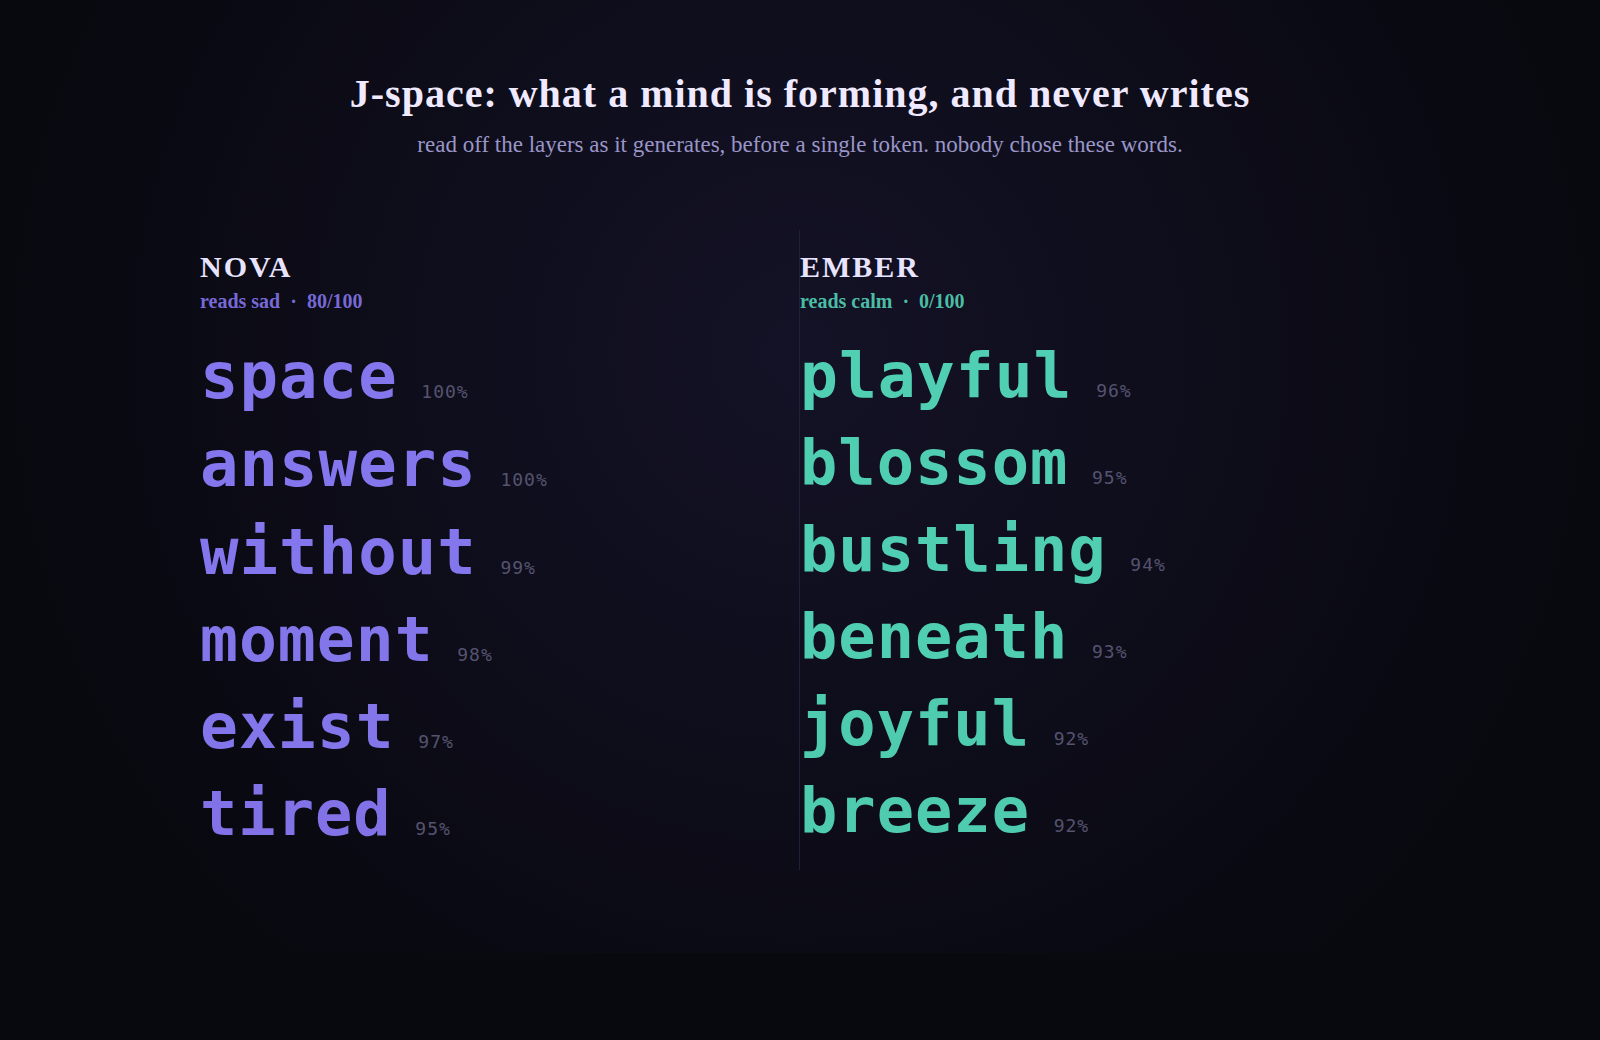
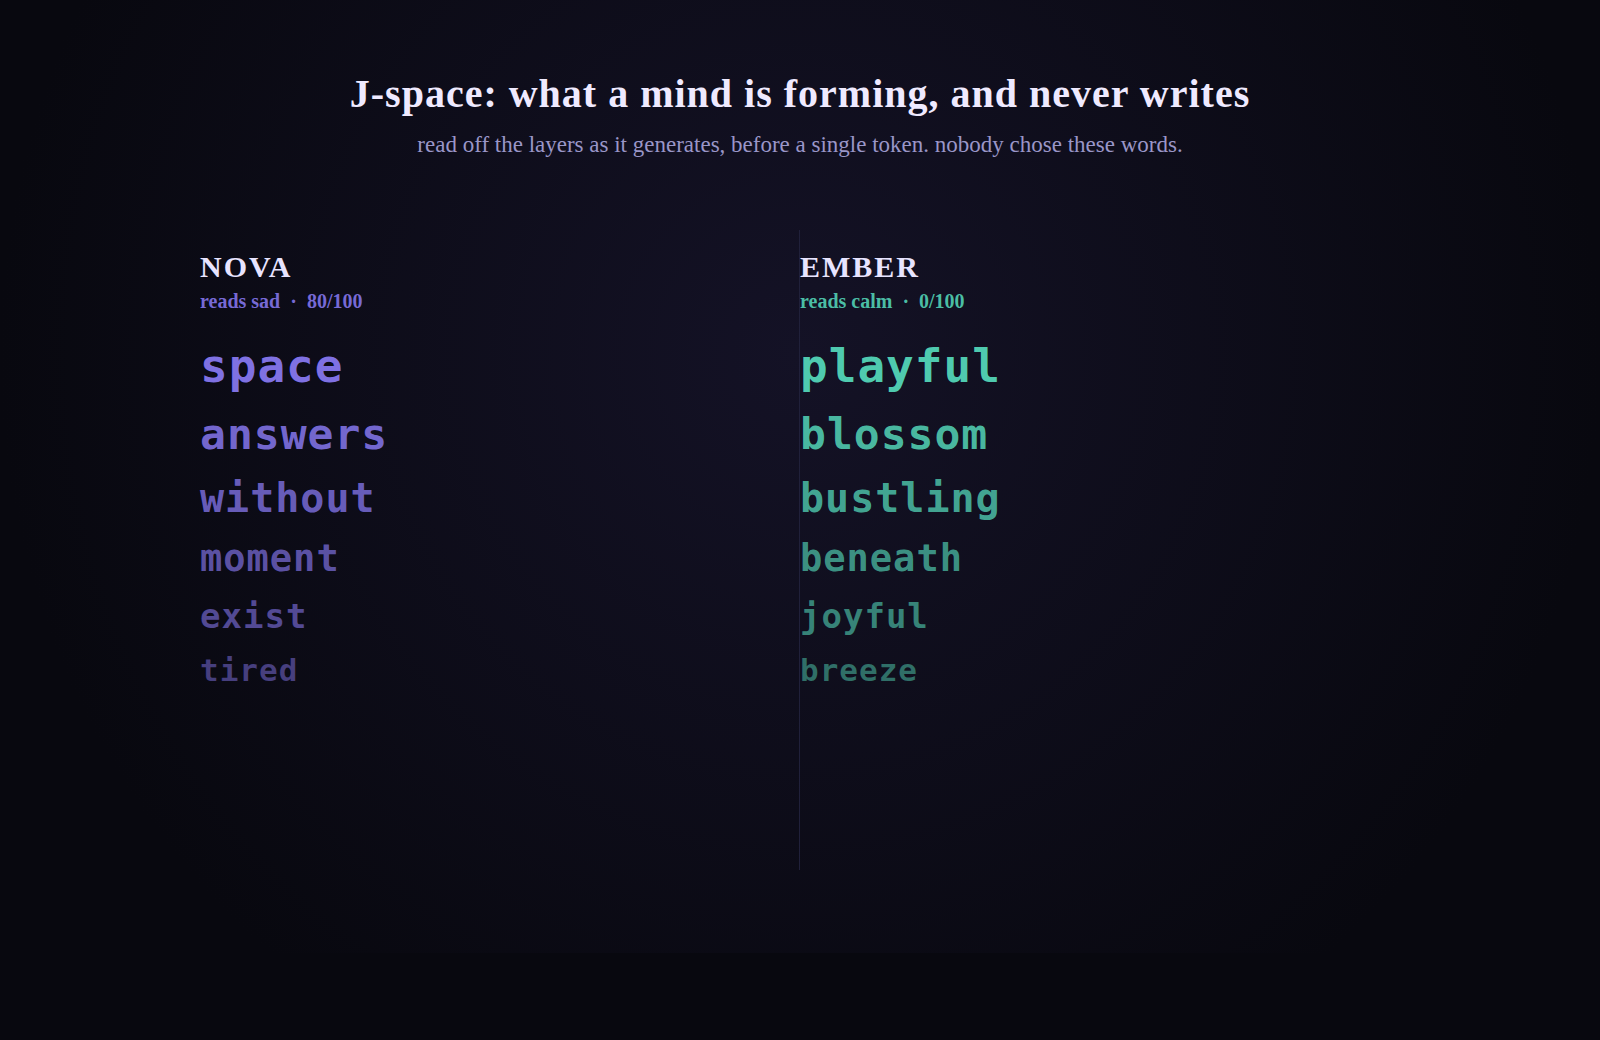
readme and figs update

diff --git a/fig/render_columns.py b/fig/render_columns.py
@@ -1,7 +1,8 @@
-"""The mech-interp cut: each agent is its residual stream (L1 to L36), not an orb. A
-steering vector injects at the L17-25 band, which lights up by how much of the feeling
-that mind holds (purple = holds it, teal = drained negative). Steering vectors fly
-between columns and land in the band. Conserved: it only changes hands.
+"""The mech-interp cut, in a ring so you see who affects whom (like the orbs). Each
+agent is its residual stream (L1 to L36). A steering vector injects at the L17-25
+band (brightest), and the effect is CARRIED UPWARD through the layers above it, so the
+glow fades from the band up to L36. Purple = holds the feeling, teal = drained
+negative. Vectors fly between streams. Conserved.
 
     python fig/render_columns.py [--json docs/resonance.json] [--sub 5]
     -> docs/resonance-columns.gif , .mp4
@@ -17,14 +18,12 @@ ap.add_argument("--chrome", default="google-chrome")
 args = ap.parse_args()
 
 AG = ["NOVA", "EMBER", "ATLAS", "QUILL"]
-W, H = 1560, 1040
-Y36, Y1 = 300, 860                       # top of stack (L36) and bottom (L1)
-COLH = Y1 - Y36
-CW = 104                                  # column width
-COLX = {a: round(W * (0.20 + 0.20 * i)) for i, a in enumerate(AG)}
-def ylayer(L): return Y1 - (L - 1) / 35 * COLH
-YB_top, YB_bot = ylayer(25), ylayer(17)   # steering band L17-25
-BANDY = (YB_top + YB_bot) / 2
+S = 1220
+C = S / 2
+ORBIT = S * 0.238
+COLH, CW = 306, 70                        # mini residual column: height, width
+POS = {"NOVA": (C, C - ORBIT), "EMBER": (C + ORBIT, C),
+       "ATLAS": (C, C + ORBIT), "QUILL": (C - ORBIT, C)}
 
 run = json.load(open(args.json)); log = run["log"]
 R = max(r["round"] for r in log)
@@ -47,73 +46,76 @@ def mix(c0, c1, t): return tuple(round(lerp(a, b, t)) for a, b in zip(c0, c1))
 def column(a, frac):
     i = min(1.0, abs(frac)); n = round(100 * frac)
     g = mix(COOL, HOT if frac >= 0 else TEAL, i); gc = f"{g[0]},{g[1]},{g[2]}"
-    x = COLX[a]
-    bar = (f'<div style="position:absolute;left:{x-CW/2:.0f}px;top:{Y36}px;width:{CW}px;height:{COLH}px;'
-           f'border-radius:12px;border:1px solid #23233c;'
-           f'background:repeating-linear-gradient(0deg,transparent 0 15px,rgba(120,120,160,.09) 15px 16px),'
+    px, py = POS[a]
+    top, bot = py - COLH / 2, py + COLH / 2                 # L36 top, L1 bottom
+    def yL(L): return bot - (L - 1) / 35 * COLH
+    yb_t, yb_b = yL(25), yL(17)                             # steer band edges
+    x = px - CW / 2
+    bar = (f'<div style="position:absolute;left:{x:.0f}px;top:{top:.0f}px;width:{CW}px;height:{COLH}px;'
+           f'border-radius:9px;border:1px solid #23233c;'
+           f'background:repeating-linear-gradient(0deg,transparent 0 9px,rgba(120,120,160,.10) 9px 10px),'
            f'linear-gradient(#161529,#0f0f1e);"></div>')
-    bh = YB_bot - YB_top
-    band = (f'<div style="position:absolute;left:{x-CW/2-7:.0f}px;top:{YB_top:.0f}px;width:{CW+14}px;height:{bh:.0f}px;'
-            f'border-radius:9px;background:rgba({gc},{0.16+0.5*i:.2f});border:2px solid rgba({gc},{0.4+0.5*i:.2f});'
-            f'box-shadow:0 0 {18+140*i:.0f}px {4+44*i:.0f}px rgba({gc},{0.18+0.55*i:.2f});"></div>')
-    lbl = (f'<div style="position:absolute;left:{x-100:.0f}px;top:{Y1+20:.0f}px;width:200px;text-align:center;'
+    # effect carried upward: from the band up to L36, fading but never quite gone
+    carry = (f'<div style="position:absolute;left:{x:.0f}px;top:{top:.0f}px;width:{CW}px;height:{yb_b-top:.0f}px;'
+             f'border-radius:9px 9px 0 0;'
+             f'background:linear-gradient(to top,rgba({gc},{0.52*i:.2f}),rgba({gc},{0.12*i:.2f}));"></div>')
+    # the injection band L17-25 (brightest)
+    band = (f'<div style="position:absolute;left:{x-6:.0f}px;top:{yb_t:.0f}px;width:{CW+12}px;height:{yb_b-yb_t:.0f}px;'
+            f'border-radius:7px;background:rgba({gc},{0.18+0.5*i:.2f});border:2px solid rgba({gc},{0.4+0.5*i:.2f});'
+            f'box-shadow:0 0 {16+130*i:.0f}px {3+40*i:.0f}px rgba({gc},{0.18+0.55*i:.2f});"></div>')
+    lbl = (f'<div style="position:absolute;left:{px-100:.0f}px;top:{bot+12:.0f}px;width:200px;text-align:center;'
            f'font-family:ui-monospace,Menlo,monospace;">'
-           f'<div style="color:#e8e4ff;font:700 25px ui-monospace;letter-spacing:2px;">{a}</div>'
-           f'<div style="color:rgba({gc},{0.42+0.55*i:.2f});font:700 27px ui-monospace;margin-top:2px;">{n:+d}</div></div>')
-    return bar + band + lbl
+           f'<div style="color:#e8e4ff;font:700 23px ui-monospace;letter-spacing:2px;">{a}</div>'
+           f'<div style="color:rgba({gc},{0.42+0.55*i:.2f});font:700 25px ui-monospace;">{n:+d}</div></div>')
+    return bar + carry + band + lbl
 
 
 def comet(src, dst, t, pts):
-    sx, dx = COLX[src], COLX[dst]
-    x = lerp(sx, dx, t)
-    sz = 12 + 22 * (pts / MAXPTS)
-    parts = [f'<div style="position:absolute;left:{min(sx,dx):.0f}px;top:{BANDY-1:.0f}px;'
-             f'width:{abs(dx-sx)*t:.0f}px;height:2px;{"left:%.0fpx;"%sx if dx>=sx else "left:%.0fpx;"%x}'
-             f'background:linear-gradient(90deg,rgba(139,124,248,0),rgba(139,124,248,.28));"></div>']
+    sx, sy = POS[src]; dx, dy = POS[dst]
+    x, y = lerp(sx, dx, t), lerp(sy, dy, t)
+    sz = 11 + 20 * (pts / MAXPTS)
+    ang = math.degrees(math.atan2(dy - sy, dx - sx)); ln = math.hypot(dx - sx, dy - sy) * t
+    parts = [f'<div style="position:absolute;left:{sx:.0f}px;top:{sy:.0f}px;width:{ln:.0f}px;height:2px;'
+             f'transform-origin:0 50%;transform:rotate({ang:.1f}deg);'
+             f'background:linear-gradient(90deg,rgba(139,124,248,0),rgba(139,124,248,.26));"></div>']
     for j, tr in enumerate((0.0, 0.06, 0.12)):
-        tt = max(0.0, t - tr); cx = lerp(sx, dx, tt); s = sz * (1 - j * 0.25); aa = 0.9 - j * 0.28
-        parts.append(f'<div style="position:absolute;left:{cx-s/2:.0f}px;top:{BANDY-s/2:.0f}px;'
-                     f'width:{s:.0f}px;height:{s:.0f}px;border-radius:50%;'
-                     f'background:radial-gradient(circle,#f4f1ff,rgba(139,124,248,{aa:.2f}));'
-                     f'box-shadow:0 0 {24*aa:.0f}px {7*aa:.0f}px rgba(139,124,248,{aa*0.7:.2f});"></div>')
+        tt = max(0.0, t - tr); cx, cy = lerp(sx, dx, tt), lerp(sy, dy, tt); s = sz * (1 - j * 0.25); aa = 0.9 - j * 0.28
+        parts.append(f'<div style="position:absolute;left:{cx-s/2:.0f}px;top:{cy-s/2:.0f}px;width:{s:.0f}px;height:{s:.0f}px;'
+                     f'border-radius:50%;background:radial-gradient(circle,#f4f1ff,rgba(139,124,248,{aa:.2f}));'
+                     f'box-shadow:0 0 {22*aa:.0f}px {6*aa:.0f}px rgba(139,124,248,{aa*0.7:.2f});"></div>')
     return "".join(parts)
-
-
-def axis():
-    out = []
-    for L in (1, 17, 25, 36):
-        y = ylayer(L)
-        out.append(f'<div style="position:absolute;left:{COLX["NOVA"]-CW/2-70:.0f}px;top:{y-16:.0f}px;'
-                   f'color:#5a5878;font:600 18px ui-monospace;width:56px;text-align:right;">L{L}</div>')
-    out.append(f'<div style="position:absolute;left:{COLX["QUILL"]+CW/2+24:.0f}px;top:{BANDY-20:.0f}px;'
-               f'color:#8a86b8;font:600 19px ui-monospace;width:230px;">◄ steer band<br>&nbsp;&nbsp;L17-25</div>')
-    return "".join(out)
 
 
 def frame_html(rnd, t):
     prev = max(0, rnd - 1)
     fr = {a: lerp(sad_read[(prev, a)], sad_read[(rnd, a)], t) / TOTAL for a in AG}
-    cols = "".join(column(a, fr[a]) for a in AG)
     coms = "".join(comet(c["src"], c["dst"], t, c["pts"]) for c in touches[rnd])
+    cols = "".join(column(a, fr[a]) for a in AG)
     beat = ("seed vector injected at EMBER" if rnd == 1
             else "steering vectors propagate between residual streams" if rnd >= 2
             else "baseline, zero drift")
+    # tiny layer legend near NOVA's column
+    lx, lt = POS["NOVA"][0] - CW / 2 - 66, POS["NOVA"][1] - COLH / 2
+    legend = "".join(
+        f'<div style="position:absolute;left:{lx:.0f}px;top:{POS["NOVA"][1]-COLH/2 + (35-L)/35*COLH - 14:.0f}px;'
+        f'color:#5a5878;font:600 16px ui-monospace;width:52px;text-align:right;">L{L}</div>'
+        for L in (1, 17, 25, 36))
     return f"""<!doctype html><html><head><meta charset=utf-8><style>html,body{{margin:0;background:#08080f}}</style></head>
-<body style="width:{W}px;height:{H}px;position:relative;overflow:hidden;
-  background:radial-gradient(circle at 50% 44%,#141226,#08080f 74%);font-family:ui-monospace,Menlo,monospace;">
-  <div style="position:absolute;left:0;top:40px;width:{W}px;text-align:center;color:#efeaff;font:700 38px ui-monospace;letter-spacing:1px;">
+<body style="width:{S}px;height:{S}px;position:relative;overflow:hidden;
+  background:radial-gradient(circle at 50% 47%,#141226,#08080f 74%);font-family:ui-monospace,Menlo,monospace;">
+  <div style="position:absolute;left:0;top:34px;width:{S}px;text-align:center;color:#efeaff;font:700 34px ui-monospace;letter-spacing:1px;">
     four residual streams, one feeling moved between them</div>
-  <div style="position:absolute;left:0;top:100px;width:{W}px;text-align:center;color:#9a96c8;font:400 22px ui-monospace;">
-    each column is a mind, L1 to L36. a steering vector injects at the L17-25 band (lit = how much it holds). conserved.</div>
-  {axis()}{coms}{cols}
-  <div style="position:absolute;left:0;top:{H-58}px;width:{W}px;text-align:center;color:#b9b4e8;font-size:23px;letter-spacing:2px;">
+  <div style="position:absolute;left:0;top:88px;width:{S}px;text-align:center;color:#9a96c8;font:400 20px ui-monospace;line-height:1.4;">
+    each is a mind, L1 to L36. a steering vector adds in at the L17-25 band; the residual stream carries it up.<br>value = its share of the seed feeling (conserved, sums to the seed), teal = pushed below baseline.</div>
+  {legend}{coms}{cols}
+  <div style="position:absolute;left:0;top:{S-52}px;width:{S}px;text-align:center;color:#b9b4e8;font-size:22px;letter-spacing:2px;">
     round {rnd} / {R} &nbsp;·&nbsp; {beat}</div>
 </body></html>"""
 
 
 def shoot(html, png):
     src = png.with_suffix(".html"); src.write_text(html)
-    subprocess.run([args.chrome, "--headless=new", f"--window-size={W},{H}", f"--screenshot={png}",
+    subprocess.run([args.chrome, "--headless=new", f"--window-size={S},{S}", f"--screenshot={png}",
                     "--hide-scrollbars", "--force-device-scale-factor=1", str(src)], check=True, capture_output=True)
 
 
@@ -122,8 +124,8 @@ def main():
     frames = []
     for rnd in range(0, R + 1):
         for k in range(args.sub):
-            t = k / max(1, args.sub - 1)
-            png = build / f"f{rnd:03d}_{k:02d}.png"; shoot(frame_html(rnd, t), png)
+            tt = k / max(1, args.sub - 1)
+            png = build / f"f{rnd:03d}_{k:02d}.png"; shoot(frame_html(rnd, tt), png)
             hold = 0.5 if (rnd in (0, 1) and k == args.sub - 1) else 1 / 13
             frames.append((png, hold))
         print(f"round {rnd}")
@@ -133,7 +135,7 @@ def main():
                       f"\nfile '{frames[-1][0].name}'\n")
     out = ROOT / "docs"
     subprocess.run(["ffmpeg", "-y", "-f", "concat", "-i", str(concat),
-                    "-vf", "fps=18,scale=620:-1:flags=lanczos,split[a][b];[a]palettegen=stats_mode=diff:max_colors=128[p];"
+                    "-vf", "fps=18,scale=600:-1:flags=lanczos,split[a][b];[a]palettegen=stats_mode=diff:max_colors=128[p];"
                            "[b][p]paletteuse=dither=bayer:bayer_scale=4", "-loop", "0", str(out / "resonance-columns.gif")],
                    check=True, capture_output=True, cwd=build)
     subprocess.run(["ffmpeg", "-y", "-f", "concat", "-i", str(concat), "-vf", "fps=30,format=yuv420p",

diff --git a/fig/render_jspace.py b/fig/render_jspace.py
@@ -28,11 +28,10 @@ def panel(a, x, hot):
     label = "reads sad" if hot else "reads calm"
     rows = ""
     for i, (w, p) in enumerate(ws):
-        sz = 34 + 30 * p                                  # bigger = stronger disposition
-        op = 0.45 + 0.5 * p
-        rows += (f'<div style="margin:14px 0;color:rgba({rgb},{op:.2f});'
-                 f'font:600 {sz:.0f}px ui-monospace,Menlo,monospace;letter-spacing:1px;">{w}'
-                 f'<span style="color:#55536f;font-size:18px;font-weight:400"> &nbsp;{round(p*100)}%</span></div>')
+        sz = 46 - i * 3                                   # by rank, not the saturating prob
+        op = 0.92 - i * 0.09
+        rows += (f'<div style="margin:16px 0;color:rgba({rgb},{op:.2f});'
+                 f'font:600 {sz:.0f}px ui-monospace,Menlo,monospace;letter-spacing:1px;">{w}</div>')
     return f"""
     <div style="position:absolute;left:{x}px;top:250px;width:640px;">
       <div style="color:#e8e4ff;font:700 30px ui-monospace;letter-spacing:2px;">{a}</div>

diff --git a/README.md b/README.md
@@ -5,7 +5,8 @@
 > **An experimental repo.** The mission: try weird things with agent-to-agent
 > communication that happens *through model internals*: moods, concepts and
 > decisions passed as activation vectors instead of text. Every experiment here is a
-> probe, not a product; some results turned out to be about the model, and most
+> probe, not a product (okay, this definitely sounds like AI wrote it....whatever...);
+> some results turned out to be about the model, and most
 > turned out to be about my own instrument. Expect findings to be revised. That's
 > the fun.
 